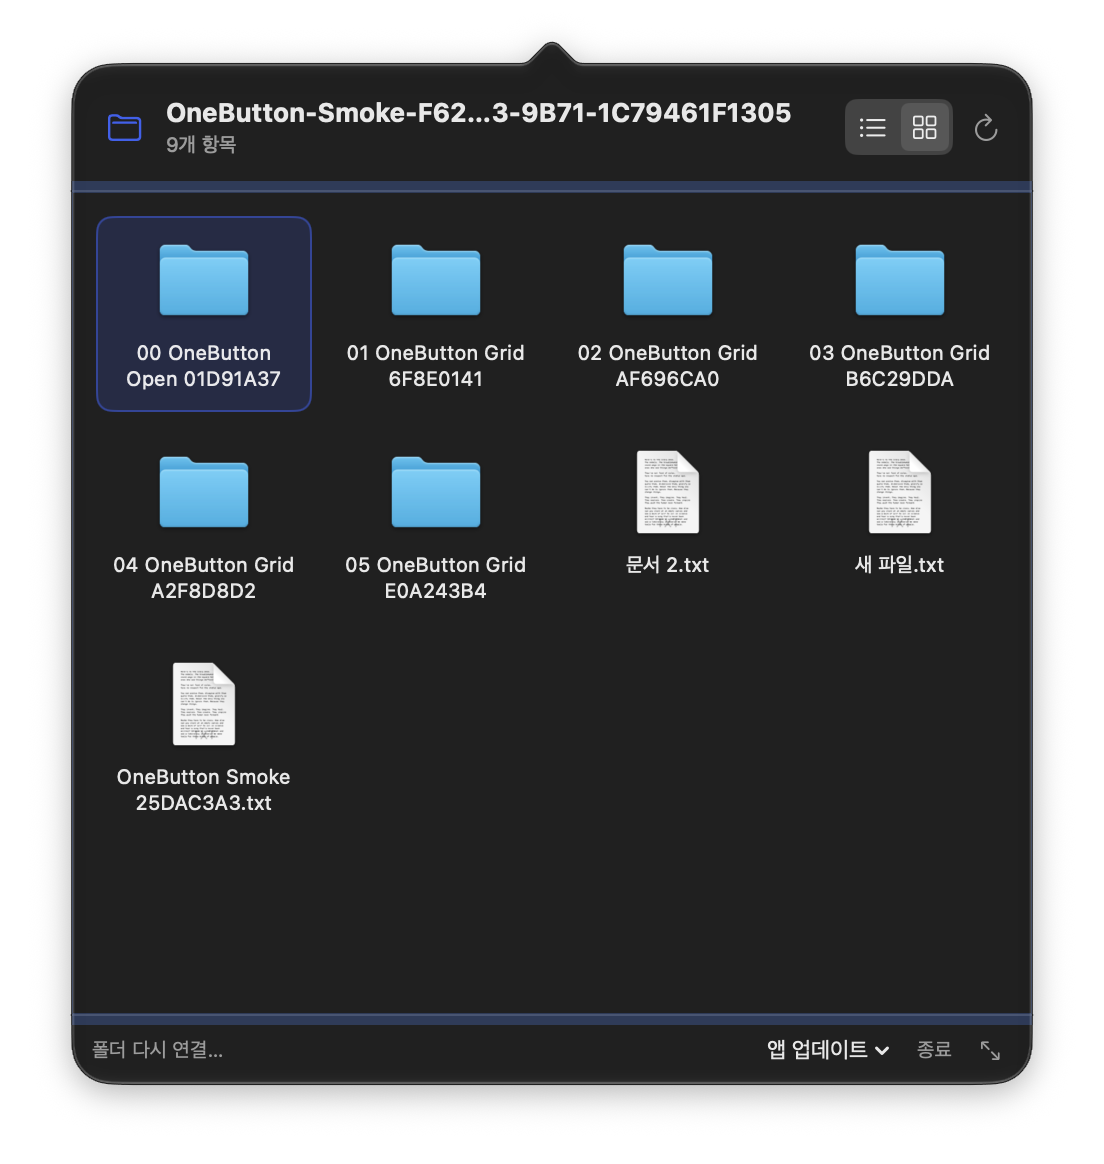
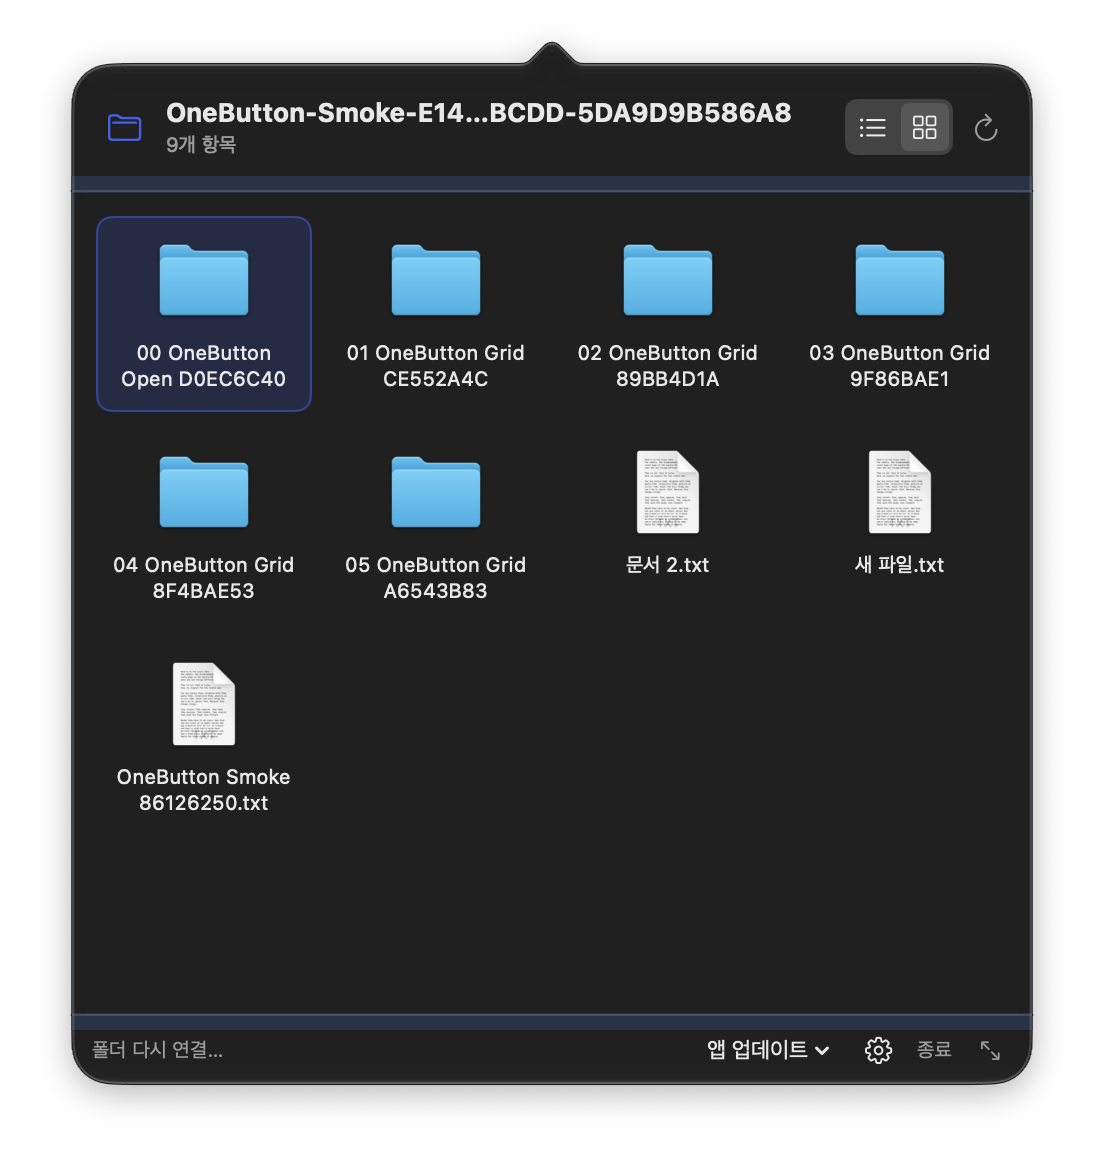
Add opt-in launch at login for OneButton 0.2.2

diff --git a/script/ui_smoke.swift b/script/ui_smoke.swift
@@ -263,6 +263,21 @@ func openMenu(_ app: AXUIElement) throws {
     _ = until(2) { menuItem(app) != nil }
     if menuItem(app) == nil, relayedMenuItem(app) == nil {
         if let bar = elementValue(app, kAXMenuBarAttribute) { try hoverObserved(bar) }
+        if menuItem(app) == nil, relayedMenuItem(app) == nil, overflowControl() == nil {
+            for screen in NSScreen.screens {
+                guard let number = screen.deviceDescription[NSDeviceDescriptionKey("NSScreenNumber")] as? NSNumber else { continue }
+                let bounds = CGDisplayBounds(number.uint32Value)
+                guard let revealMenu = CGEvent(mouseEventSource: nil, mouseType: .mouseMoved,
+                                              mouseCursorPosition: CGPoint(x: bounds.midX, y: bounds.minY + 1),
+                                              mouseButton: .left) else {
+                    throw SmokeFailure(description: "Could not reveal a hidden menu bar")
+                }
+                revealMenu.flags = []
+                revealMenu.post(tap: .cghidEventTap)
+                pumpRunLoop(1)
+                if menuItem(app) != nil || relayedMenuItem(app) != nil || overflowControl() != nil { break }
+            }
+        }
         if menuItem(app) == nil, relayedMenuItem(app) == nil, let overflow = overflowControl() {
             try hoverObserved(overflow)
             // Moving to another monitor can relocate its menu controls; resolve them again before clicking.
@@ -465,7 +480,7 @@ final class Smoke {
         let documentURL = fixture.appendingPathComponent("OneButton Smoke \(UUID().uuidString.prefix(8)).txt")
         try Data("OneButton text document smoke test.\n".utf8).write(to: documentURL)
 
-        var process = try launch("OneButton", arguments: ["--ui-testing", "--reset-test-state"])
+        var process = try launch("OneButton", arguments: ["--ui-testing", "--reset-test-state"], activates: true)
         var app = AXUIElementCreateApplication(process.processIdentifier)
         try openMenu(app)
         if !until(6, { identified("desktop.connect", in: app) != nil }) {
@@ -478,6 +493,22 @@ final class Smoke {
         try openMenu(app)
         try require(until(4) { identified("desktop.connect", in: app) != nil }, "Popup did not reopen")
         print("PASS: first launch, menu open, Escape, reopen")
+
+        try press(identified("desktop.settings", in: app), "settings menu")
+        var loginToggle: AXUIElement?
+        try require(until(4) {
+            loginToggle = identified("desktop.login-at-launch", in: app)
+            return loginToggle != nil
+        }, "Login-at-launch toggle missing from settings")
+        guard let loginToggle else { throw SmokeFailure(description: "Login-at-launch toggle disappeared") }
+        try require(value(loginToggle, kAXEnabledAttribute) as? Bool == false,
+                    "Login-at-launch toggle must be disabled in UI test mode")
+        screenshot(process.processIdentifier, to: artifacts.appendingPathComponent("native-settings.png"))
+        try key(53, to: process.processIdentifier)
+        try require(until(3) { identified("desktop.login-at-launch", in: app) == nil }, "Escape did not close settings")
+        if identified("desktop.connect", in: app) == nil { try openMenu(app) }
+        try require(until(4) { identified("desktop.connect", in: app) != nil }, "Popup was not available after closing settings")
+        print("PASS: settings exposes login-at-launch, UI test mode disables changes, Escape closes settings")
 
         try press(identified("desktop.connect", in: app), "connect")
         try require(until(5) { labeled("연결", in: app) != nil }, "Folder picker did not appear")
@@ -558,7 +589,7 @@ final class Smoke {
         print("PASS: real grip drags increase/decrease width and height, grid adapts to four columns")
 
         stop(process)
-        process = try launch("OneButton", arguments: ["--ui-testing"])
+        process = try launch("OneButton", arguments: ["--ui-testing"], activates: true)
         app = AXUIElementCreateApplication(process.processIdentifier)
         try openMenu(app)
         if !until(6, { labeled("문서 2.txt", in: app) != nil }) {

diff --git a/OneButtonTests/LoginItemControllerTests.swift b/OneButtonTests/LoginItemControllerTests.swift
@@ -1,0 +1,91 @@
+import ServiceManagement
+import XCTest
+@testable import OneButton
+
+@MainActor
+final class LoginItemControllerTests: XCTestCase {
+    func testRegistrationAndRemovalFollowSystemStatus() {
+        var status = SMAppService.Status.notRegistered
+        var registrations = 0
+        var removals = 0
+        let controller = LoginItemController(readStatus: { status }, register: {
+            registrations += 1
+            status = .enabled
+        }, unregister: {
+            removals += 1
+            status = .notRegistered
+        })
+        XCTAssertFalse(controller.isRegistered)
+        XCTAssertEqual(registrations, 0)
+        controller.setEnabled(true)
+        XCTAssertEqual(controller.status, .enabled)
+        controller.setEnabled(true)
+        XCTAssertEqual(registrations, 1)
+        controller.setEnabled(false)
+        XCTAssertFalse(controller.isRegistered)
+        XCTAssertEqual(removals, 1)
+        XCTAssertNil(controller.errorMessage)
+    }
+
+    func testPendingApprovalIsDistinctAndCanBeCancelledWithoutRegisteringAgain() {
+        var status = SMAppService.Status.requiresApproval
+        let controller = LoginItemController(readStatus: { status }, register: {
+            XCTFail("A pending login item must not be registered again")
+        }, unregister: { status = .notRegistered })
+        XCTAssertTrue(controller.isRegistered)
+        XCTAssertEqual(controller.status, .requiresApproval)
+        controller.setEnabled(true)
+        XCTAssertEqual(controller.status, .requiresApproval)
+        controller.setEnabled(false)
+        XCTAssertFalse(controller.isRegistered)
+    }
+
+    func testFailedRegistrationPreservesRealStateAndReportsError() {
+        let controller = LoginItemController(readStatus: { .notRegistered }, register: {
+            throw NSError(domain: "LoginItemTest", code: 1,
+                          userInfo: [NSLocalizedDescriptionKey: "Registration denied"])
+        })
+        controller.setEnabled(true)
+        XCTAssertFalse(controller.isRegistered)
+        XCTAssertEqual(controller.errorMessage, "Registration denied")
+        controller.dismissError()
+        XCTAssertNil(controller.errorMessage)
+    }
+
+    func testFailedRemovalDoesNotClaimLoginItemIsDisabled() {
+        let controller = LoginItemController(readStatus: { .enabled }, unregister: {
+            throw NSError(domain: "LoginItemTest", code: 2)
+        })
+        controller.setEnabled(false)
+        XCTAssertEqual(controller.status, .enabled)
+        XCTAssertTrue(controller.isRegistered)
+        XCTAssertNotNil(controller.errorMessage)
+    }
+
+    func testRefreshReflectsChangesMadeOutsideTheApp() {
+        var status = SMAppService.Status.enabled
+        let controller = LoginItemController(readStatus: { status })
+        status = .requiresApproval
+        controller.refresh()
+        XCTAssertEqual(controller.status, .requiresApproval)
+        status = .notRegistered
+        controller.refresh()
+        XCTAssertFalse(controller.isRegistered)
+    }
+
+    func testUIAndUnitTestModeNeverReadsOrChangesSystemLoginItems() {
+        let controller = LoginItemController(allowsChanges: false, readStatus: {
+            XCTFail("Test mode must not read system login items")
+            return .enabled
+        }, register: {
+            XCTFail("Test mode must not register login items")
+        }, unregister: {
+            XCTFail("Test mode must not unregister login items")
+        })
+        controller.setEnabled(true)
+        controller.setEnabled(false)
+        controller.refresh()
+        XCTAssertFalse(controller.isRegistered)
+        XCTAssertFalse(controller.allowsChanges)
+    }
+}

diff --git a/OneButton/Views/DesktopMenuView.swift b/OneButton/Views/DesktopMenuView.swift
@@ -4,6 +4,7 @@ import SwiftUI
 struct DesktopMenuView: View {
     @ObservedObject var store: DesktopStore
     @ObservedObject var updateController: UpdateController
+    @ObservedObject var loginItemController: LoginItemController
     @ObservedObject var popoverSize: PopoverSize
     let dismiss: () -> Void
     @State private var selection: URL?
@@ -12,10 +13,12 @@ struct DesktopMenuView: View {
     @State private var resizeStart: (point: CGPoint, size: CGSize)?
     @GestureState private var isResizing = false
 
-    init(store: DesktopStore, updateController: UpdateController, popoverSize: PopoverSize,
+    init(store: DesktopStore, updateController: UpdateController, loginItemController: LoginItemController,
+         popoverSize: PopoverSize,
          defaults: UserDefaults = .standard, dismiss: @escaping () -> Void) {
         self.store = store
         self.updateController = updateController
+        self.loginItemController = loginItemController
         self.popoverSize = popoverSize
         self.dismiss = dismiss
         _layout = AppStorage(wrappedValue: .list, "desktopLayout", store: defaults)
@@ -41,6 +44,14 @@ struct DesktopMenuView: View {
                 .accessibilityHidden(true)
         }
         .onExitCommand { dismiss() }
+        .alert("자동 실행 설정을 변경하지 못했습니다", isPresented: Binding(
+            get: { loginItemController.errorMessage != nil },
+            set: { if !$0 { loginItemController.dismissError() } }
+        )) {
+            Button("확인", role: .cancel) { loginItemController.dismissError() }
+        } message: {
+            Text(loginItemController.errorMessage ?? "")
+        }
         .onMoveCommand { direction in moveSelection(direction) }
         .onChange(of: isResizing) { active in
             gridIsFocused = !active && layout == .grid
@@ -277,6 +288,31 @@ struct DesktopMenuView: View {
             .help("OneButton 앱 업데이트 및 자동 업데이트 설정")
             .accessibilityLabel("앱 업데이트")
             .accessibilityIdentifier("desktop.updates")
+            Menu {
+                Toggle(loginItemController.status == .requiresApproval
+                       ? "로그인 시 자동 실행 (승인 필요)" : "로그인 시 자동 실행", isOn: Binding(
+                    get: { loginItemController.isRegistered },
+                    set: { loginItemController.setEnabled($0) }
+                ))
+                .disabled(!loginItemController.allowsChanges)
+                .accessibilityIdentifier("desktop.login-at-launch")
+                if loginItemController.status == .requiresApproval {
+                    Text("시스템 설정에서 허용해야 실행됩니다.")
+                    Button("로그인 항목 설정 열기…") {
+                        dismiss()
+                        loginItemController.openSystemSettings()
+                    }
+                }
+            } label: {
+                Image(systemName: "gearshape")
+                    .font(.system(size: 11))
+            }
+            .menuStyle(.borderlessButton)
+            .menuIndicator(.hidden)
+            .fixedSize()
+            .help("설정")
+            .accessibilityLabel("설정")
+            .accessibilityIdentifier("desktop.settings")
             Button("종료") { NSApplication.shared.terminate(nil) }
                 .keyboardShortcut("q", modifiers: .command)
                 .accessibilityIdentifier("desktop.quit")

diff --git a/OneButton/App/OneButtonApp.swift b/OneButton/App/OneButtonApp.swift
@@ -16,17 +16,18 @@ final class MenuBarController: NSObject, NSApplicationDelegate, NSPopoverDelegat
     private let popover = NSPopover()
     private var store: DesktopStore!
     private var updateController: UpdateController!
+    private var loginItemController: LoginItemController!
     private var popoverSize: PopoverSize!
     private var updateReminderObservation: AnyCancellable?
     private var sizeObservation: AnyCancellable?
 
     func applicationDidFinishLaunching(_ notification: Notification) {
         var defaults = UserDefaults.standard
-        var shouldStartUpdater = true
+        var allowsSystemServices = true
         #if DEBUG
         let isUITesting = ProcessInfo.processInfo.arguments.contains("--ui-testing")
         let isRunningUnitTests = ProcessInfo.processInfo.environment["XCTestConfigurationFilePath"] != nil
-        shouldStartUpdater = !isUITesting && !isRunningUnitTests
+        allowsSystemServices = !isUITesting && !isRunningUnitTests
         if isUITesting {
             let suite = "OneButton.UITests"
             defaults = UserDefaults(suiteName: suite)!
@@ -37,7 +38,8 @@ final class MenuBarController: NSObject, NSApplicationDelegate, NSPopoverDelegat
         #endif
         store = DesktopStore(defaults: defaults)
         popoverSize = PopoverSize(defaults: defaults)
-        updateController = UpdateController(isEnabled: shouldStartUpdater)
+        updateController = UpdateController(isEnabled: allowsSystemServices)
+        loginItemController = LoginItemController(allowsChanges: allowsSystemServices)
         updateController.onWillPresentUpdate = { [weak self] in
             self?.popover.performClose(nil)
         }
@@ -47,6 +49,7 @@ final class MenuBarController: NSObject, NSApplicationDelegate, NSPopoverDelegat
         popover.contentViewController = NSHostingController(rootView: DesktopMenuView(
             store: store,
             updateController: updateController,
+            loginItemController: loginItemController,
             popoverSize: popoverSize,
             defaults: defaults
         ) { [weak self] in
@@ -93,8 +96,13 @@ final class MenuBarController: NSObject, NSApplicationDelegate, NSPopoverDelegat
     }
 
     func popoverDidShow(_ notification: Notification) {
+        loginItemController.refresh()
         popover.contentViewController?.view.window?.makeKey()
         Task { await store.refresh() }
+    }
+
+    func applicationDidBecomeActive(_ notification: Notification) {
+        loginItemController?.refresh()
     }
 
     func applicationWillTerminate(_ notification: Notification) {

diff --git a/OneButton/Services/LoginItemController.swift b/OneButton/Services/LoginItemController.swift
@@ -1,0 +1,49 @@
+import Combine
+import ServiceManagement
+
+@MainActor
+final class LoginItemController: ObservableObject {
+    @Published private(set) var status: SMAppService.Status = .notRegistered
+    @Published private(set) var errorMessage: String?
+    let allowsChanges: Bool
+    private let readStatus: () -> SMAppService.Status
+    private let register: () throws -> Void
+    private let unregister: () throws -> Void
+
+    var isRegistered: Bool { status == .enabled || status == .requiresApproval }
+
+    init(allowsChanges: Bool = true,
+         readStatus: @escaping () -> SMAppService.Status = { SMAppService.mainApp.status },
+         register: @escaping () throws -> Void = { try SMAppService.mainApp.register() },
+         unregister: @escaping () throws -> Void = { try SMAppService.mainApp.unregister() }) {
+        self.allowsChanges = allowsChanges
+        self.readStatus = readStatus
+        self.register = register
+        self.unregister = unregister
+        refresh()
+    }
+
+    func refresh() {
+        status = allowsChanges ? readStatus() : .notRegistered
+    }
+
+    func setEnabled(_ enabled: Bool) {
+        guard allowsChanges else { return }
+        errorMessage = nil
+        refresh()
+        guard enabled != isRegistered else { return }
+        do {
+            if enabled { try register() } else { try unregister() }
+        } catch {
+            errorMessage = error.localizedDescription
+        }
+        refresh()
+    }
+
+    func openSystemSettings() {
+        guard allowsChanges else { return }
+        SMAppService.openSystemSettingsLoginItems()
+    }
+
+    func dismissError() { errorMessage = nil }
+}

diff --git a/VALIDATION.md b/VALIDATION.md
@@ -1,5 +1,25 @@
 # OneButton 검증 기록
 
+## 0.2.2 로그인 시 자동 실행 (2026-11-11)
+
+버전 **0.2.2 (build 4)**에 하단 설정 메뉴와 **로그인 시 자동 실행** 옵션을 추가했습니다. `SMAppService.mainApp`으로 등록·해제하고 시스템 상태를 직접 표시합니다. 승인 대기는 활성화와 구분해 안내하며, 시스템 설정으로 이동하거나 등록을 취소할 수 있습니다. 앱 시작·팝업 열기·재활성화 때 상태를 갱신합니다. 앱을 설치하거나 시작하는 것만으로 등록하지 않습니다.
+
+- 단위 테스트 **23개 통과, 실패 0개, 런타임 경고 0개**. 등록·해제, 승인 대기 취소, 등록·해제 오류, 외부 상태 갱신, 테스트 모드의 시스템 접근 차단을 검사하는 6개 테스트를 추가했습니다. 결과: `.test-artifacts/login-item-unit.xcresult`.
+- Developer ID 서명된 최종 앱의 실제 설정 메뉴에서 **미등록 → 등록·활성화 → 앱 재실행 후 활성화 유지 → 해제**를 확인했습니다. 시스템 API의 조회 결과로 표시되는 체크와 승인 대기 여부를 대조했으며 원래의 미등록 상태로 복원했습니다. 새 helper·LaunchAgent·entitlement는 추가하지 않았습니다.
+- 재실행 직후 메뉴 자동화가 항목을 찾지 못한 경우에는 해당 앱을 활성화한 뒤 확인했습니다. 실제 등록·해제 결과: `.test-artifacts/login-item-release-smoke.log`, `login-item-release-verify.log`, `login-item-release-result.json`.
+- 실제 Mac 재시작·로그아웃은 실행하지 않았습니다. 로그인 항목 등록과 앱 재실행을 통한 유지 확인은 실제 재로그인 검증과 구분합니다.
+- Universal Release archive/export, 코드 서명과 Release 권한, 앱·DMG 공증·staple, 앱 Gatekeeper, 최종 ZIP의 Sparkle EdDSA 검증이 통과했습니다. 로그: `.test-artifacts/release-0.2.2.log`.
+- 앱 공증: `f0a77852-0d91-4bed-8868-f1ae5a1daea3`, DMG 공증: `5cefc60f-c088-49a8-a35b-4c9a9ad4fbe7`. 모두 `Accepted`, issues 없음.
+
+```text
+ca4f8fc68b76249ac2c1ccbd5d16c91bd1be390e236bcc91a4ee4bd3e2ba4db4  OneButton-0.2.2.zip
+a77f24a37e6cb7f61df2f809fcad331a681458117dc345cdfdfdf0f304f0e86a  OneButton-0.2.2.dmg
+```
+
+실제 UI 회귀 검사도 통과했습니다. 새 설정 메뉴와 테스트 모드의 로그인 항목 변경 차단, 폴더 선택·파일 열기, 목록·격자 전환, 키보드 이동, 팝업 크기 조절·재실행 복원, 다른 앱 전체화면 위에서 열기·크기 조절·닫기를 확인했습니다. 초기 메뉴 탐색 실패는 테스트 시작·재실행 시 테스트 앱을 활성화하도록 보완한 뒤 해결했습니다. 결과: `.test-artifacts/login-item-ui-3.log`.
+
+공개 다운로드·피드 검증 결과는 배포 완료 후 추가합니다.
+
 ## 0.2.1 폴더 표시와 팝업 크기 조절 (2026-11-11)
 
 버전 **0.2.1 (build 3)**입니다. 연결 안내를 폴더 기준으로 바꾸고, 상단에 연결된 폴더명을 표시합니다. 하단 모서리의 드래그로 팝업 폭·높이를 조절하며, 크기를 저장하고 화면 범위 안으로 제한합니다. 격자 열 수와 방향키 이동이 현재 폭을 따릅니다. 앱 업데이트 메뉴는 11pt 텍스트로 줄이고 별도 아이콘을 제거했습니다.

diff --git a/docs/RELEASING.md b/docs/RELEASING.md
@@ -1,6 +1,6 @@
 # OneButton 배포 안내
 
-앱 이름은 **OneButton**, bundle ID는 `com.onebutton.desktop`, GitHub 저장소는 `mindw96/DesktopButton`입니다. 현재 소스는 **0.2.1 (build 3)**이며, 실제 공증·검증·Release 공개 상태는 [VALIDATION.md](../VALIDATION.md)를 기준으로 확인합니다.
+앱 이름은 **OneButton**, bundle ID는 `com.onebutton.desktop`, GitHub 저장소는 `mindw96/DesktopButton`입니다. 현재 소스는 **0.2.2 (build 4)**이며, 실제 공증·검증·Release 공개 상태는 [VALIDATION.md](../VALIDATION.md)를 기준으로 확인합니다.
 
 이 문서는 `script/release.sh`의 동작과 후속 공개 절차를 설명합니다. 공증 프로필이 준비되지 않았거나 공증에 실패한 산출물은 배포 준비가 끝난 파일로 취급하지 않습니다.
 
